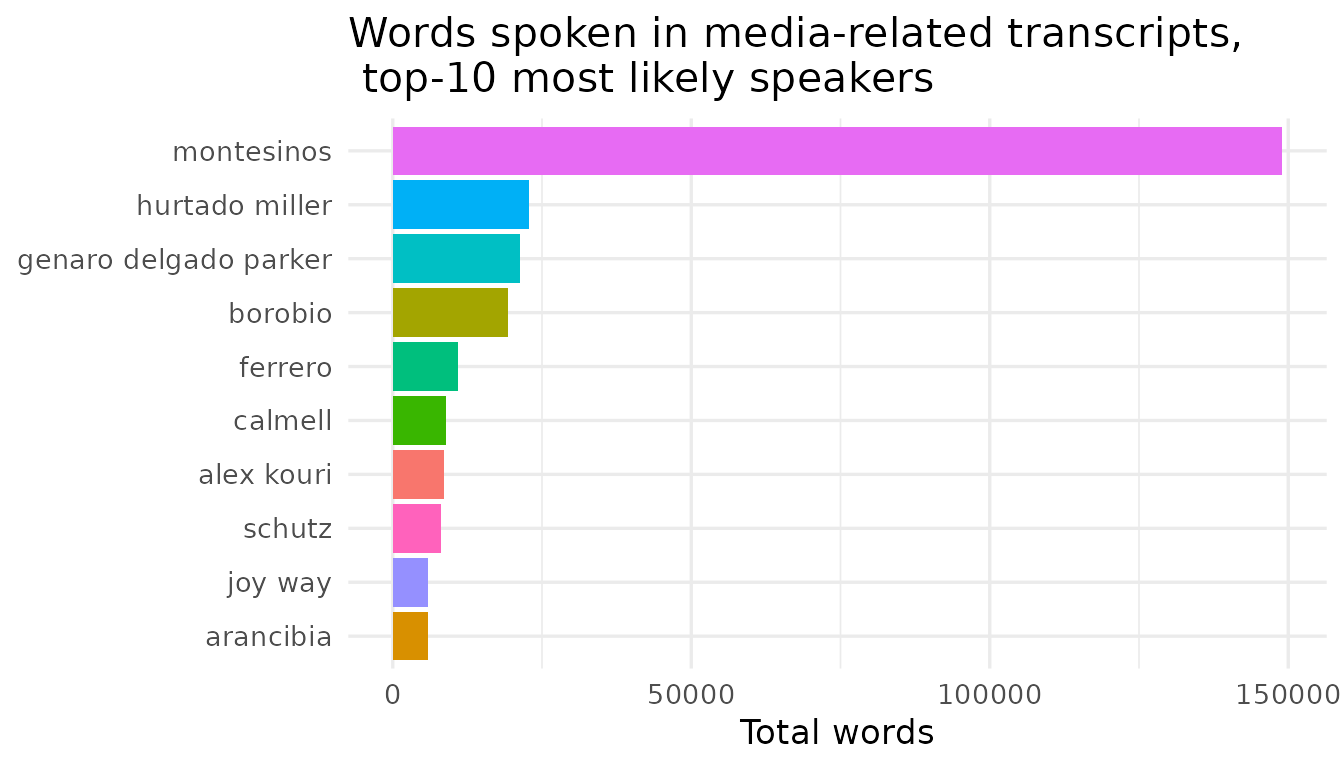
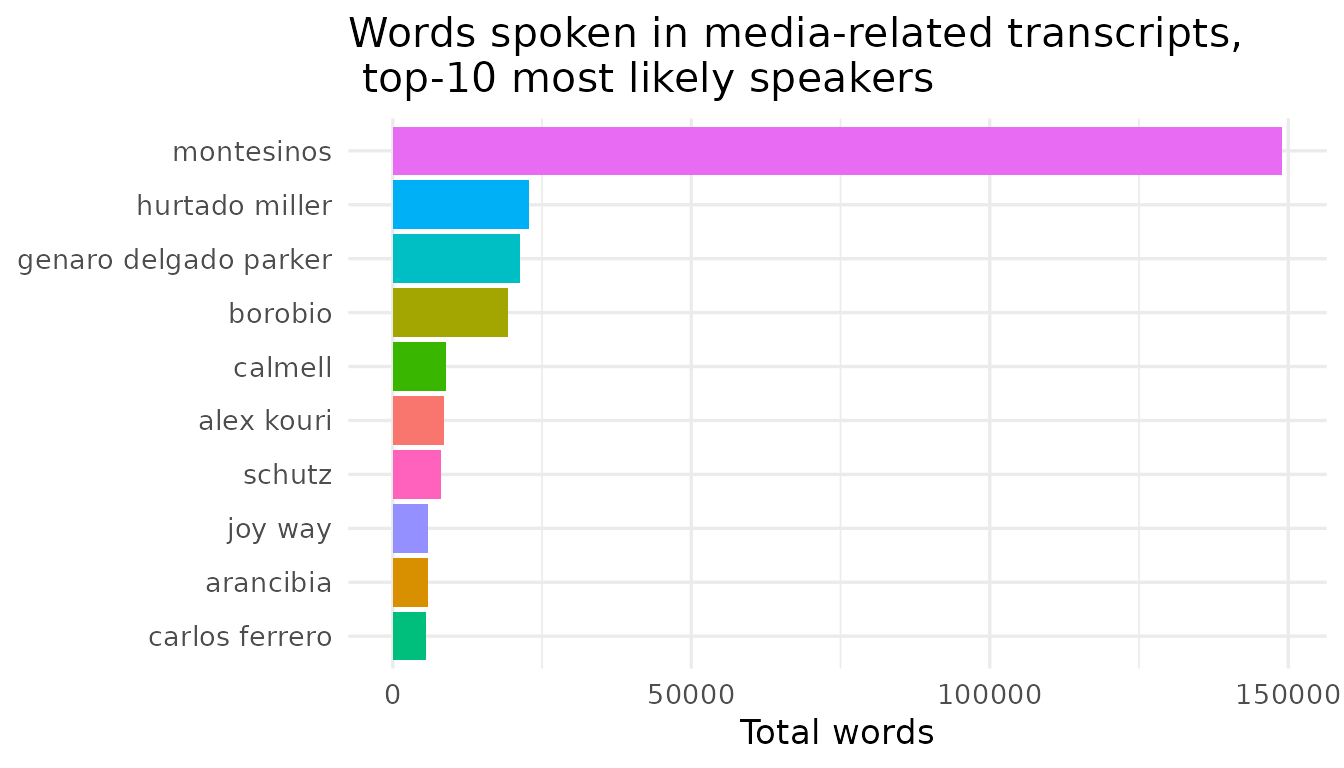
Deploying to gh-pages from @ jessietrudeau/BribeR@6d04090cc44cb154516525cdc8392747bbb18c57 🚀

diff --git a/articles/briber_data_guide.html b/articles/briber_data_guide.html
@@ -316,14 +316,14 @@ are shown in the below table.</p>
 <div class="sourceCode" id="cb5"><pre class="downlit sourceCode r">
 <code class="sourceCode R"><span><span class="fu"><a href="https://rdrr.io/r/utils/head.html" class="external-link">head</a></span><span class="op">(</span><span class="va">actors</span><span class="op">)</span></span>
 <span><span class="co">#&gt; <span style="color: #949494;"># A tibble: 6 × 6</span></span></span>
-<span><span class="co">#&gt;   speaker                         speaker_std position         type  party notes</span></span>
-<span><span class="co">#&gt;   <span style="color: #949494; font-style: italic;">&lt;chr&gt;</span>                           <span style="color: #949494; font-style: italic;">&lt;chr&gt;</span>       <span style="color: #949494; font-style: italic;">&lt;chr&gt;</span>            <span style="color: #949494; font-style: italic;">&lt;chr&gt;</span> <span style="color: #949494; font-style: italic;">&lt;chr&gt;</span> <span style="color: #949494; font-style: italic;">&lt;chr&gt;</span></span></span>
-<span><span class="co">#&gt; <span style="color: #BCBCBC;">1</span> vladimir montesinos             montesinos  Head of Nationa… mont… <span style="color: #BB0000;">NA</span>    <span style="color: #BB0000;">NA</span>   </span></span>
-<span><span class="co">#&gt; <span style="color: #BCBCBC;">2</span> desconocido                     desconocido <span style="color: #BB0000;">NA</span>               <span style="color: #BB0000;">NA</span>    <span style="color: #BB0000;">NA</span>    <span style="color: #BB0000;">NA</span>   </span></span>
-<span><span class="co">#&gt; <span style="color: #BCBCBC;">3</span> alexander martin kouri bumachar alex kouri  Congressman (19… cong… PPC   <span style="color: #BB0000;">NA</span>   </span></span>
-<span><span class="co">#&gt; <span style="color: #BCBCBC;">4</span> representante de lucchetti      lucchetti   Representative … busi… <span style="color: #BB0000;">NA</span>    The …</span></span>
-<span><span class="co">#&gt; <span style="color: #BCBCBC;">5</span> carlos eduardo ferrero costa    ferrero     Congressman (19… cong… NM    Mult…</span></span>
-<span><span class="co">#&gt; <span style="color: #BCBCBC;">6</span> alberto fujimori                fujimori    President of Pe… elec… <span style="color: #BB0000;">NA</span>    <span style="color: #BB0000;">NA</span></span></span></code></pre></div>
+<span><span class="co">#&gt;   speaker                         speaker_std     position     type  party notes</span></span>
+<span><span class="co">#&gt;   <span style="color: #949494; font-style: italic;">&lt;chr&gt;</span>                           <span style="color: #949494; font-style: italic;">&lt;chr&gt;</span>           <span style="color: #949494; font-style: italic;">&lt;chr&gt;</span>        <span style="color: #949494; font-style: italic;">&lt;chr&gt;</span> <span style="color: #949494; font-style: italic;">&lt;chr&gt;</span> <span style="color: #949494; font-style: italic;">&lt;chr&gt;</span></span></span>
+<span><span class="co">#&gt; <span style="color: #BCBCBC;">1</span> vladimiro montesinos            montesinos      Chief Advis… mont… <span style="color: #BB0000;">NA</span>    <span style="color: #BB0000;">NA</span>   </span></span>
+<span><span class="co">#&gt; <span style="color: #BCBCBC;">2</span> desconocido                     desconocido     Placeholder… other <span style="color: #BB0000;">NA</span>    <span style="color: #BB0000;">NA</span>   </span></span>
+<span><span class="co">#&gt; <span style="color: #BCBCBC;">3</span> alexander martin kouri bumachar alex kouri      Congressman… cong… PPC   <span style="color: #BB0000;">NA</span>   </span></span>
+<span><span class="co">#&gt; <span style="color: #BCBCBC;">4</span> representante de lucchetti      lucchetti       Representat… busi… <span style="color: #BB0000;">NA</span>    The …</span></span>
+<span><span class="co">#&gt; <span style="color: #BCBCBC;">5</span> eduardo ferrero costa           eduardo ferrero Minister of… bure… <span style="color: #BB0000;">NA</span>    Brot…</span></span>
+<span><span class="co">#&gt; <span style="color: #BCBCBC;">6</span> carlos ferrero costa            carlos ferrero  Constituent… cong… NM    Brot…</span></span></code></pre></div>
 <table class="table">
 <colgroup>
 <col width="25%">
@@ -353,13 +353,13 @@ are shown in the below table.</p>
 </tr>
 <tr class="even">
 <td><code>type</code></td>
-<td>charater</td>
+<td>character</td>
 <td>One of 11 categories described in the <a href="https://jessietrudeau.com/BribeR/articles/raw_data_guide.html" class="external-link">Raw
 Data Guide</a>: <code>montesinos</code>, <code>security</code>,
 <code>congress</code>, <code>judiciary</code>, <code>media</code>,
 <code>businessperson</code>, <code>elected official</code>,
-<code>bureaucrat</code>, <code>foreign</code>,<code>illicit</code>, and
-unknown (<code>NA</code>).</td>
+<code>bureaucrat</code>, <code>foreign</code>, <code>illicit</code> and
+<code>other</code>.</td>
 </tr>
 <tr class="odd">
 <td><code>party</code></td>
@@ -387,11 +387,11 @@ some of the speakers from Fujimori’s party:</p>
 <span>  <span class="fu"><a href="https://dplyr.tidyverse.org/reference/select.html" class="external-link">select</a></span><span class="op">(</span><span class="va">speaker</span>, <span class="va">speaker_std</span>, <span class="va">position</span>, <span class="va">type</span>, <span class="va">party</span><span class="op">)</span> <span class="op"><a href="https://magrittr.tidyverse.org/reference/pipe.html" class="external-link">%&gt;%</a></span> </span>
 <span>  <span class="fu"><a href="https://dplyr.tidyverse.org/reference/slice.html" class="external-link">slice</a></span><span class="op">(</span><span class="fl">3</span><span class="op">:</span><span class="fl">5</span><span class="op">)</span></span>
 <span><span class="co">#&gt; <span style="color: #949494;"># A tibble: 3 × 5</span></span></span>
-<span><span class="co">#&gt;   speaker               speaker_std position              type     party</span></span>
-<span><span class="co">#&gt;   <span style="color: #949494; font-style: italic;">&lt;chr&gt;</span>                 <span style="color: #949494; font-style: italic;">&lt;chr&gt;</span>       <span style="color: #949494; font-style: italic;">&lt;chr&gt;</span>                 <span style="color: #949494; font-style: italic;">&lt;chr&gt;</span>    <span style="color: #949494; font-style: italic;">&lt;chr&gt;</span></span></span>
-<span><span class="co">#&gt; <span style="color: #BCBCBC;">1</span> carlos blanco oropeza blanco      Congressman 1995-2000 congress NM   </span></span>
-<span><span class="co">#&gt; <span style="color: #BCBCBC;">2</span> jorge trelles montero trelles     Congressman 1995-2000 congress NM   </span></span>
-<span><span class="co">#&gt; <span style="color: #BCBCBC;">3</span> eduardo pando pacheco pando       Congressman 1995-2000 congress NM</span></span></code></pre></div>
+<span><span class="co">#&gt;   speaker               speaker_std position                type     party</span></span>
+<span><span class="co">#&gt;   <span style="color: #949494; font-style: italic;">&lt;chr&gt;</span>                 <span style="color: #949494; font-style: italic;">&lt;chr&gt;</span>       <span style="color: #949494; font-style: italic;">&lt;chr&gt;</span>                   <span style="color: #949494; font-style: italic;">&lt;chr&gt;</span>    <span style="color: #949494; font-style: italic;">&lt;chr&gt;</span></span></span>
+<span><span class="co">#&gt; <span style="color: #BCBCBC;">1</span> carlos blanco oropeza blanco      Congressman (1995-2000) congress NM   </span></span>
+<span><span class="co">#&gt; <span style="color: #BCBCBC;">2</span> jorge trelles montero trelles     Congressman (1995-2000) congress NM   </span></span>
+<span><span class="co">#&gt; <span style="color: #BCBCBC;">3</span> eduardo pando pacheco pando       Congressman (1995-2000) congress NM</span></span></code></pre></div>
 </div>
 </div>
 <div class="section level2">

diff --git a/reference/get_transcript_speakers.html b/reference/get_transcript_speakers.html
@@ -111,7 +111,7 @@ combination that never co-occurs returns a zero-row tibble.</p>
 <span class="r-out co"><span class="r-pr">#&gt;</span> <span style="color: #BCBCBC;">3</span> alberto kouri    <span style="color: #949494;">&lt;dbl [1]&gt;</span>  </span>
 <span class="r-out co"><span class="r-pr">#&gt;</span> <span style="color: #BCBCBC;">4</span> alex kouri       <span style="color: #949494;">&lt;dbl [7]&gt;</span>  </span>
 <span class="r-out co"><span class="r-pr">#&gt;</span> <span style="color: #BCBCBC;">5</span> alvarado cabrera <span style="color: #949494;">&lt;dbl [1]&gt;</span>  </span>
-<span class="r-out co"><span class="r-pr">#&gt;</span> <span style="color: #BCBCBC;">6</span> americano        <span style="color: #949494;">&lt;dbl [2]&gt;</span>  </span>
+<span class="r-out co"><span class="r-pr">#&gt;</span> <span style="color: #BCBCBC;">6</span> americano        <span style="color: #949494;">&lt;dbl [1]&gt;</span>  </span>
 <span class="r-in"><span></span></span>
 <span class="r-in"><span><span class="co"># Get speakers from specific transcripts</span></span></span>
 <span class="r-in"><span><span class="fu">get_transcript_speakers</span><span class="op">(</span>n <span class="op">=</span> <span class="fu"><a href="https://rdrr.io/r/base/c.html" class="external-link">c</a></span><span class="op">(</span><span class="fl">5</span>, <span class="fl">10</span><span class="op">)</span><span class="op">)</span></span></span>
@@ -130,20 +130,20 @@ combination that never co-occurs returns a zero-row tibble.</p>
 <span class="r-in"><span></span></span>
 <span class="r-in"><span><span class="co"># Get speakers from transcripts about media</span></span></span>
 <span class="r-in"><span><span class="fu">get_transcript_speakers</span><span class="op">(</span>topic <span class="op">=</span> <span class="st">"media"</span><span class="op">)</span></span></span>
-<span class="r-out co"><span class="r-pr">#&gt;</span> <span style="color: #949494;"># A tibble: 47 × 2</span></span>
-<span class="r-out co"><span class="r-pr">#&gt;</span>    speaker_std   transcripts</span>
-<span class="r-out co"><span class="r-pr">#&gt;</span>    <span style="color: #949494; font-style: italic;">&lt;chr&gt;</span>         <span style="color: #949494; font-style: italic;">&lt;list&gt;</span>     </span>
-<span class="r-out co"><span class="r-pr">#&gt;</span> <span style="color: #BCBCBC;"> 1</span> alberto kouri <span style="color: #949494;">&lt;dbl [1]&gt;</span>  </span>
-<span class="r-out co"><span class="r-pr">#&gt;</span> <span style="color: #BCBCBC;"> 2</span> alex kouri    <span style="color: #949494;">&lt;dbl [3]&gt;</span>  </span>
-<span class="r-out co"><span class="r-pr">#&gt;</span> <span style="color: #BCBCBC;"> 3</span> arancibia     <span style="color: #949494;">&lt;dbl [1]&gt;</span>  </span>
-<span class="r-out co"><span class="r-pr">#&gt;</span> <span style="color: #BCBCBC;"> 4</span> bello vasquez <span style="color: #949494;">&lt;dbl [1]&gt;</span>  </span>
-<span class="r-out co"><span class="r-pr">#&gt;</span> <span style="color: #BCBCBC;"> 5</span> bolona        <span style="color: #949494;">&lt;dbl [1]&gt;</span>  </span>
-<span class="r-out co"><span class="r-pr">#&gt;</span> <span style="color: #BCBCBC;"> 6</span> borobio       <span style="color: #949494;">&lt;dbl [3]&gt;</span>  </span>
-<span class="r-out co"><span class="r-pr">#&gt;</span> <span style="color: #BCBCBC;"> 7</span> bringas       <span style="color: #949494;">&lt;dbl [1]&gt;</span>  </span>
-<span class="r-out co"><span class="r-pr">#&gt;</span> <span style="color: #BCBCBC;"> 8</span> calmell       <span style="color: #949494;">&lt;dbl [4]&gt;</span>  </span>
-<span class="r-out co"><span class="r-pr">#&gt;</span> <span style="color: #BCBCBC;"> 9</span> cesar         <span style="color: #949494;">&lt;dbl [1]&gt;</span>  </span>
-<span class="r-out co"><span class="r-pr">#&gt;</span> <span style="color: #BCBCBC;">10</span> chirinos      <span style="color: #949494;">&lt;dbl [1]&gt;</span>  </span>
-<span class="r-out co"><span class="r-pr">#&gt;</span> <span style="color: #949494;"># ℹ 37 more rows</span></span>
+<span class="r-out co"><span class="r-pr">#&gt;</span> <span style="color: #949494;"># A tibble: 48 × 2</span></span>
+<span class="r-out co"><span class="r-pr">#&gt;</span>    speaker_std    transcripts</span>
+<span class="r-out co"><span class="r-pr">#&gt;</span>    <span style="color: #949494; font-style: italic;">&lt;chr&gt;</span>          <span style="color: #949494; font-style: italic;">&lt;list&gt;</span>     </span>
+<span class="r-out co"><span class="r-pr">#&gt;</span> <span style="color: #BCBCBC;"> 1</span> alberto kouri  <span style="color: #949494;">&lt;dbl [1]&gt;</span>  </span>
+<span class="r-out co"><span class="r-pr">#&gt;</span> <span style="color: #BCBCBC;"> 2</span> alex kouri     <span style="color: #949494;">&lt;dbl [3]&gt;</span>  </span>
+<span class="r-out co"><span class="r-pr">#&gt;</span> <span style="color: #BCBCBC;"> 3</span> arancibia      <span style="color: #949494;">&lt;dbl [1]&gt;</span>  </span>
+<span class="r-out co"><span class="r-pr">#&gt;</span> <span style="color: #BCBCBC;"> 4</span> bello vasquez  <span style="color: #949494;">&lt;dbl [1]&gt;</span>  </span>
+<span class="r-out co"><span class="r-pr">#&gt;</span> <span style="color: #BCBCBC;"> 5</span> bolona         <span style="color: #949494;">&lt;dbl [1]&gt;</span>  </span>
+<span class="r-out co"><span class="r-pr">#&gt;</span> <span style="color: #BCBCBC;"> 6</span> borobio        <span style="color: #949494;">&lt;dbl [3]&gt;</span>  </span>
+<span class="r-out co"><span class="r-pr">#&gt;</span> <span style="color: #BCBCBC;"> 7</span> bringas        <span style="color: #949494;">&lt;dbl [1]&gt;</span>  </span>
+<span class="r-out co"><span class="r-pr">#&gt;</span> <span style="color: #BCBCBC;"> 8</span> calmell        <span style="color: #949494;">&lt;dbl [4]&gt;</span>  </span>
+<span class="r-out co"><span class="r-pr">#&gt;</span> <span style="color: #BCBCBC;"> 9</span> carlos ferrero <span style="color: #949494;">&lt;dbl [1]&gt;</span>  </span>
+<span class="r-out co"><span class="r-pr">#&gt;</span> <span style="color: #BCBCBC;">10</span> cesar          <span style="color: #949494;">&lt;dbl [1]&gt;</span>  </span>
+<span class="r-out co"><span class="r-pr">#&gt;</span> <span style="color: #949494;"># ℹ 38 more rows</span></span>
 <span class="r-in"><span></span></span>
 <span class="r-in"><span><span class="co"># Get speakers from transcripts about both media and reelection</span></span></span>
 <span class="r-in"><span><span class="fu">get_transcript_speakers</span><span class="op">(</span>topic <span class="op">=</span> <span class="fu"><a href="https://rdrr.io/r/base/c.html" class="external-link">c</a></span><span class="op">(</span><span class="st">"media"</span>, <span class="st">"reelection"</span><span class="op">)</span><span class="op">)</span></span></span>

diff --git a/articles/raw_data_guide.html b/articles/raw_data_guide.html
@@ -216,12 +216,12 @@ institutional role at the time of the recordings.</p>
 <span><span class="co">#&gt; <span style="color: #949494;"># A tibble: 6 × 5</span></span></span>
 <span><span class="co">#&gt;   speaker                         position               type  party speaker_std</span></span>
 <span><span class="co">#&gt;   <span style="color: #949494; font-style: italic;">&lt;chr&gt;</span>                           <span style="color: #949494; font-style: italic;">&lt;chr&gt;</span>                  <span style="color: #949494; font-style: italic;">&lt;chr&gt;</span> <span style="color: #949494; font-style: italic;">&lt;chr&gt;</span> <span style="color: #949494; font-style: italic;">&lt;chr&gt;</span>      </span></span>
-<span><span class="co">#&gt; <span style="color: #BCBCBC;">1</span> vladimir montesinos             Head of National Inte… mont… <span style="color: #BB0000;">NA</span>    montesinos </span></span>
-<span><span class="co">#&gt; <span style="color: #BCBCBC;">2</span> desconocido                     <span style="color: #BB0000;">NA</span>                     <span style="color: #BB0000;">NA</span>    <span style="color: #BB0000;">NA</span>    desconocido</span></span>
+<span><span class="co">#&gt; <span style="color: #BCBCBC;">1</span> vladimiro montesinos            Chief Advisor to the … mont… <span style="color: #BB0000;">NA</span>    montesinos </span></span>
+<span><span class="co">#&gt; <span style="color: #BCBCBC;">2</span> desconocido                     Placeholder for any u… other <span style="color: #BB0000;">NA</span>    desconocido</span></span>
 <span><span class="co">#&gt; <span style="color: #BCBCBC;">3</span> alexander martin kouri bumachar Congressman (1992-199… cong… PPC   alex kouri </span></span>
 <span><span class="co">#&gt; <span style="color: #BCBCBC;">4</span> representante de lucchetti      Representative of the… busi… <span style="color: #BB0000;">NA</span>    lucchetti  </span></span>
-<span><span class="co">#&gt; <span style="color: #BCBCBC;">5</span> carlos eduardo ferrero costa    Congressman (1995-200… cong… NM    ferrero    </span></span>
-<span><span class="co">#&gt; <span style="color: #BCBCBC;">6</span> alberto fujimori                President of Peru (19… elec… <span style="color: #BB0000;">NA</span>    fujimori</span></span></code></pre></div>
+<span><span class="co">#&gt; <span style="color: #BCBCBC;">5</span> eduardo ferrero costa           Minister of Foreign A… bure… <span style="color: #BB0000;">NA</span>    eduardo fe…</span></span>
+<span><span class="co">#&gt; <span style="color: #BCBCBC;">6</span> carlos ferrero costa            Constituent Congressm… cong… NM    carlos fer…</span></span></code></pre></div>
 <p>Actors are grouped into eleven categories. Vladimiro Montesinosis in
 his own category:</p>
 <table class="table">
@@ -239,60 +239,60 @@ his own category:</p>
 <tr class="odd">
 <td><code>montesinos</code></td>
 <td>1</td>
-<td>Vladimiro Montesinos, Head of the National Intelligence Service
-(SIN)</td>
+<td>Vladimiro Montesinos, Chief Advisor to the National Intelligence
+Service (SIN)</td>
 </tr>
 <tr class="even">
 <td><code>security</code></td>
-<td>20</td>
+<td>37</td>
 <td>Military and police officers</td>
 </tr>
 <tr class="odd">
 <td><code>congress</code></td>
-<td>25</td>
+<td>19</td>
 <td>Members of Congress, including allies and opposition members bribed
 to switch allegiance</td>
 </tr>
 <tr class="even">
 <td><code>bureaucrat</code></td>
-<td>15</td>
+<td>20</td>
 <td>Senior civil servants and agency heads</td>
 </tr>
 <tr class="odd">
 <td><code>judiciary</code></td>
-<td>14</td>
+<td>9</td>
 <td>Judges, prosecutors, and members of the electoral tribunals</td>
 </tr>
 <tr class="even">
 <td><code>foreign</code></td>
-<td>13</td>
+<td>11</td>
 <td>Foreign officials and diplomats</td>
 </tr>
 <tr class="odd">
 <td><code>media</code></td>
-<td>12</td>
+<td>13</td>
 <td>Television channel and newspaper executives</td>
 </tr>
 <tr class="even">
+<td><code>other</code></td>
+<td>18</td>
+<td>Private individuals with no institutional role</td>
+</tr>
+<tr class="odd">
 <td><code>illicit</code></td>
-<td>7</td>
+<td>5</td>
 <td>Individuals primarily associated with armed groups</td>
 </tr>
-<tr class="odd">
+<tr class="even">
 <td><code>businessperson</code></td>
-<td>5</td>
+<td>3</td>
 <td>Private sector executives and financiers</td>
 </tr>
-<tr class="even">
+<tr class="odd">
 <td><code>elected official</code></td>
-<td>5</td>
+<td>4</td>
 <td>Mayors, executives, and (non-Congressional) other elected
 officials</td>
-</tr>
-<tr class="odd">
-<td><code>unknown</code></td>
-<td>1</td>
-<td>Institutional role not recorded</td>
 </tr>
 </tbody>
 </table>

diff --git a/articles/using_briber.html b/articles/using_briber.html
@@ -348,7 +348,7 @@ index:</p>
 <span><span class="va">media_actors</span></span>
 <span><span class="co">#&gt;  [1] "vera"                    "crousillat carreno"     </span></span>
 <span><span class="co">#&gt;  [3] "genaro delgado parker"   "locutor"                </span></span>
-<span><span class="co">#&gt;  [5] "schutz"                  "silva"                  </span></span>
+<span><span class="co">#&gt;  [5] "schutz"                  "calmell"                </span></span>
 <span><span class="co">#&gt;  [7] "ricketts"                "vera abad"              </span></span>
 <span><span class="co">#&gt;  [9] "perez"                   "crousillat lopez torres"</span></span>
 <span><span class="co">#&gt; [11] "manuel delgado parker"   "valcarcel"              </span></span>

diff --git a/reference/actors.html b/reference/actors.html
@@ -76,7 +76,8 @@ column in the transcripts corpus.</p></dd>
 <code>"security"</code>), <code>"security"</code>, <code>"congress"</code>,
 <code>"judiciary"</code>, <code>"media"</code>, <code>"businessperson"</code>,
 <code>"elected official"</code>, <code>"bureaucrat"</code>, <code>"foreign"</code>,
-<code>"illicit"</code>, or <code>"unknown"</code>.</p></dd>
+<code>"illicit"</code>, or <code>"other"</code> (private individuals with no
+institutional role, including the <code>"desconocido"</code> placeholder).</p></dd>
 
 <dt>party</dt>
 <dd><p>Political party affiliation for elected officials, <code>NA</code>

diff --git a/articles/briber_data_guide.md b/articles/briber_data_guide.md
@@ -141,14 +141,14 @@ shown in the below table.
 
 head(actors)
 #> # A tibble: 6 × 6
-#>   speaker                         speaker_std position         type  party notes
-#>   <chr>                           <chr>       <chr>            <chr> <chr> <chr>
-#> 1 vladimir montesinos             montesinos  Head of Nationa… mont… NA    NA   
-#> 2 desconocido                     desconocido NA               NA    NA    NA   
-#> 3 alexander martin kouri bumachar alex kouri  Congressman (19… cong… PPC   NA   
-#> 4 representante de lucchetti      lucchetti   Representative … busi… NA    The …
-#> 5 carlos eduardo ferrero costa    ferrero     Congressman (19… cong… NM    Mult…
-#> 6 alberto fujimori                fujimori    President of Pe… elec… NA    NA
+#>   speaker                         speaker_std     position     type  party notes
+#>   <chr>                           <chr>           <chr>        <chr> <chr> <chr>
+#> 1 vladimiro montesinos            montesinos      Chief Advis… mont… NA    NA   
+#> 2 desconocido                     desconocido     Placeholder… other NA    NA   
+#> 3 alexander martin kouri bumachar alex kouri      Congressman… cong… PPC   NA   
+#> 4 representante de lucchetti      lucchetti       Representat… busi… NA    The …
+#> 5 eduardo ferrero costa           eduardo ferrero Minister of… bure… NA    Brot…
+#> 6 carlos ferrero costa            carlos ferrero  Constituent… cong… NM    Brot…
 ```
 
 | Column | Type | Description |
@@ -156,7 +156,7 @@ head(actors)
 | `speaker` | character | Speaker’s full name |
 | `speaker_std` | character | Standardized speaker identifier |
 | `position` | character | Short description of the speaker’s position |
-| `type` | charater | One of 11 categories described in the [Raw Data Guide](https://jessietrudeau.com/BribeR/articles/raw_data_guide.html): `montesinos`, `security`, `congress`, `judiciary`, `media`, `businessperson`, `elected official`, `bureaucrat`, `foreign`,`illicit`, and unknown (`NA`). |
+| `type` | character | One of 11 categories described in the [Raw Data Guide](https://jessietrudeau.com/BribeR/articles/raw_data_guide.html): `montesinos`, `security`, `congress`, `judiciary`, `media`, `businessperson`, `elected official`, `bureaucrat`, `foreign`, `illicit` and `other`. |
 | `party` | character | For elected officials, the political party at the time of the recording, given as the [V-Party](https://www.v-dem.net/) abbreviation[^2] |
 | `notes` | character | Miscellaneous notes for actors that were difficult to identify |
 
@@ -170,11 +170,11 @@ actors %>%
   select(speaker, speaker_std, position, type, party) %>% 
   slice(3:5)
 #> # A tibble: 3 × 5
-#>   speaker               speaker_std position              type     party
-#>   <chr>                 <chr>       <chr>                 <chr>    <chr>
-#> 1 carlos blanco oropeza blanco      Congressman 1995-2000 congress NM   
-#> 2 jorge trelles montero trelles     Congressman 1995-2000 congress NM   
-#> 3 eduardo pando pacheco pando       Congressman 1995-2000 congress NM
+#>   speaker               speaker_std position                type     party
+#>   <chr>                 <chr>       <chr>                   <chr>    <chr>
+#> 1 carlos blanco oropeza blanco      Congressman (1995-2000) congress NM   
+#> 2 jorge trelles montero trelles     Congressman (1995-2000) congress NM   
+#> 3 eduardo pando pacheco pando       Congressman (1995-2000) congress NM
 ```
 
 ## Linking datasets

diff --git a/articles/raw_data_guide.md b/articles/raw_data_guide.md
@@ -152,12 +152,12 @@ head(actors[, c("speaker", "position", "type", "party", "speaker_std")])
 #> # A tibble: 6 × 5
 #>   speaker                         position               type  party speaker_std
 #>   <chr>                           <chr>                  <chr> <chr> <chr>      
-#> 1 vladimir montesinos             Head of National Inte… mont… NA    montesinos 
-#> 2 desconocido                     NA                     NA    NA    desconocido
+#> 1 vladimiro montesinos            Chief Advisor to the … mont… NA    montesinos 
+#> 2 desconocido                     Placeholder for any u… other NA    desconocido
 #> 3 alexander martin kouri bumachar Congressman (1992-199… cong… PPC   alex kouri 
 #> 4 representante de lucchetti      Representative of the… busi… NA    lucchetti  
-#> 5 carlos eduardo ferrero costa    Congressman (1995-200… cong… NM    ferrero    
-#> 6 alberto fujimori                President of Peru (19… elec… NA    fujimori
+#> 5 eduardo ferrero costa           Minister of Foreign A… bure… NA    eduardo fe…
+#> 6 carlos ferrero costa            Constituent Congressm… cong… NM    carlos fer…
 ```
 
 Actors are grouped into eleven categories. Vladimiro Montesinosis in his
@@ -165,17 +165,17 @@ own category:
 
 | type | Count | Description |
 |----|----|----|
-| `montesinos` | 1 | Vladimiro Montesinos, Head of the National Intelligence Service (SIN) |
-| `security` | 20 | Military and police officers |
-| `congress` | 25 | Members of Congress, including allies and opposition members bribed to switch allegiance |
-| `bureaucrat` | 15 | Senior civil servants and agency heads |
-| `judiciary` | 14 | Judges, prosecutors, and members of the electoral tribunals |
-| `foreign` | 13 | Foreign officials and diplomats |
-| `media` | 12 | Television channel and newspaper executives |
-| `illicit` | 7 | Individuals primarily associated with armed groups |
-| `businessperson` | 5 | Private sector executives and financiers |
-| `elected official` | 5 | Mayors, executives, and (non-Congressional) other elected officials |
-| `unknown` | 1 | Institutional role not recorded |
+| `montesinos` | 1 | Vladimiro Montesinos, Chief Advisor to the National Intelligence Service (SIN) |
+| `security` | 37 | Military and police officers |
+| `congress` | 19 | Members of Congress, including allies and opposition members bribed to switch allegiance |
+| `bureaucrat` | 20 | Senior civil servants and agency heads |
+| `judiciary` | 9 | Judges, prosecutors, and members of the electoral tribunals |
+| `foreign` | 11 | Foreign officials and diplomats |
+| `media` | 13 | Television channel and newspaper executives |
+| `other` | 18 | Private individuals with no institutional role |
+| `illicit` | 5 | Individuals primarily associated with armed groups |
+| `businessperson` | 3 | Private sector executives and financiers |
+| `elected official` | 4 | Mayors, executives, and (non-Congressional) other elected officials |
 
 This figure shows that the three most common types of actors to be
 recorded are members of the security sector, congresspeople, and

diff --git a/reference/get_transcript_speakers.md b/reference/get_transcript_speakers.md
@@ -63,7 +63,7 @@ head(speakers)
 #> 3 alberto kouri    <dbl [1]>  
 #> 4 alex kouri       <dbl [7]>  
 #> 5 alvarado cabrera <dbl [1]>  
-#> 6 americano        <dbl [2]>  
+#> 6 americano        <dbl [1]>  
 
 # Get speakers from specific transcripts
 get_transcript_speakers(n = c(5, 10))
@@ -82,20 +82,20 @@ get_transcript_speakers(n = c(5, 10))
 
 # Get speakers from transcripts about media
 get_transcript_speakers(topic = "media")
-#> # A tibble: 47 × 2
-#>    speaker_std   transcripts
-#>    <chr>         <list>     
-#>  1 alberto kouri <dbl [1]>  
-#>  2 alex kouri    <dbl [3]>  
-#>  3 arancibia     <dbl [1]>  
-#>  4 bello vasquez <dbl [1]>  
-#>  5 bolona        <dbl [1]>  
-#>  6 borobio       <dbl [3]>  
-#>  7 bringas       <dbl [1]>  
-#>  8 calmell       <dbl [4]>  
-#>  9 cesar         <dbl [1]>  
-#> 10 chirinos      <dbl [1]>  
-#> # ℹ 37 more rows
+#> # A tibble: 48 × 2
+#>    speaker_std    transcripts
+#>    <chr>          <list>     
+#>  1 alberto kouri  <dbl [1]>  
+#>  2 alex kouri     <dbl [3]>  
+#>  3 arancibia      <dbl [1]>  
+#>  4 bello vasquez  <dbl [1]>  
+#>  5 bolona         <dbl [1]>  
+#>  6 borobio        <dbl [3]>  
+#>  7 bringas        <dbl [1]>  
+#>  8 calmell        <dbl [4]>  
+#>  9 carlos ferrero <dbl [1]>  
+#> 10 cesar          <dbl [1]>  
+#> # ℹ 38 more rows
 
 # Get speakers from transcripts about both media and reelection
 get_transcript_speakers(topic = c("media", "reelection"))

diff --git a/articles/using_briber.md b/articles/using_briber.md
@@ -312,7 +312,7 @@ media_actors <- actors |>
 media_actors
 #>  [1] "vera"                    "crousillat carreno"     
 #>  [3] "genaro delgado parker"   "locutor"                
-#>  [5] "schutz"                  "silva"                  
+#>  [5] "schutz"                  "calmell"                
 #>  [7] "ricketts"                "vera abad"              
 #>  [9] "perez"                   "crousillat lopez torres"
 #> [11] "manuel delgado parker"   "valcarcel"              

diff --git a/reference/actors.md b/reference/actors.md
@@ -32,7 +32,8 @@ A tibble with 140 rows and 6 variables:
   (Vladimiro Montesinos himself, kept separate from `"security"`),
   `"security"`, `"congress"`, `"judiciary"`, `"media"`,
   `"businessperson"`, `"elected official"`, `"bureaucrat"`, `"foreign"`,
-  `"illicit"`, or `"unknown"`.
+  `"illicit"`, or `"other"` (private individuals with no institutional
+  role, including the `"desconocido"` placeholder).
 
 - party:
 
